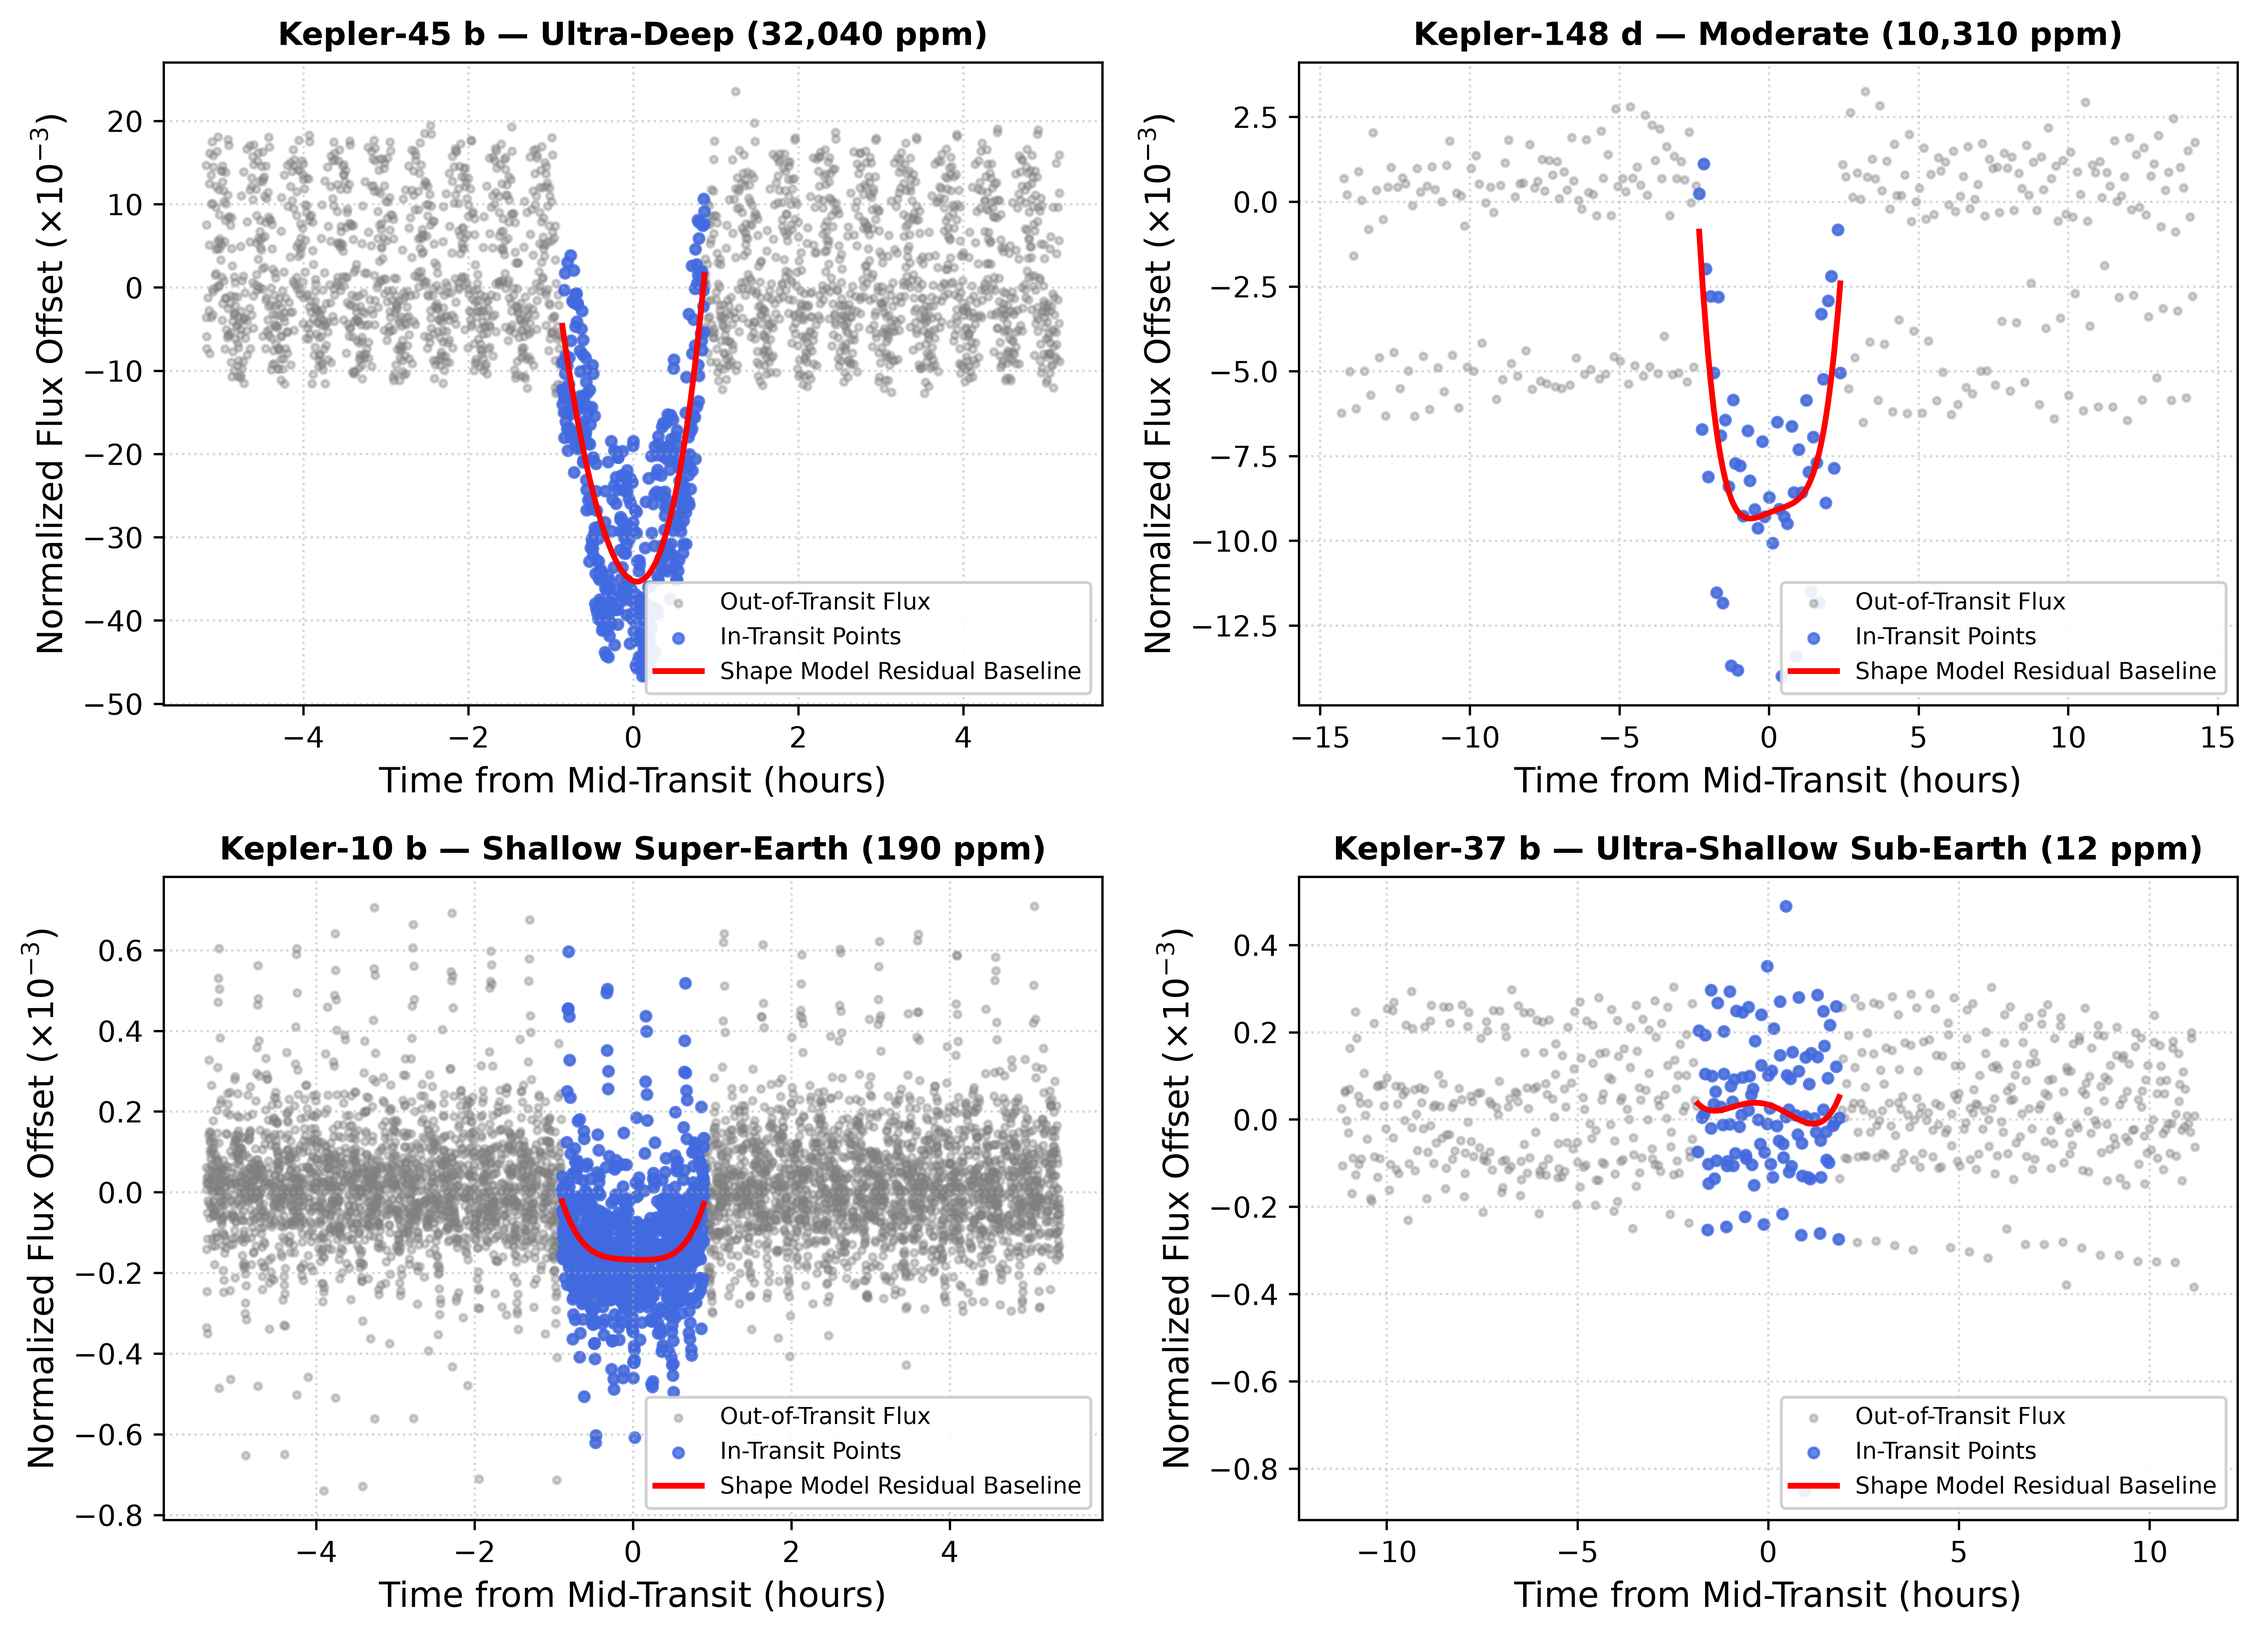
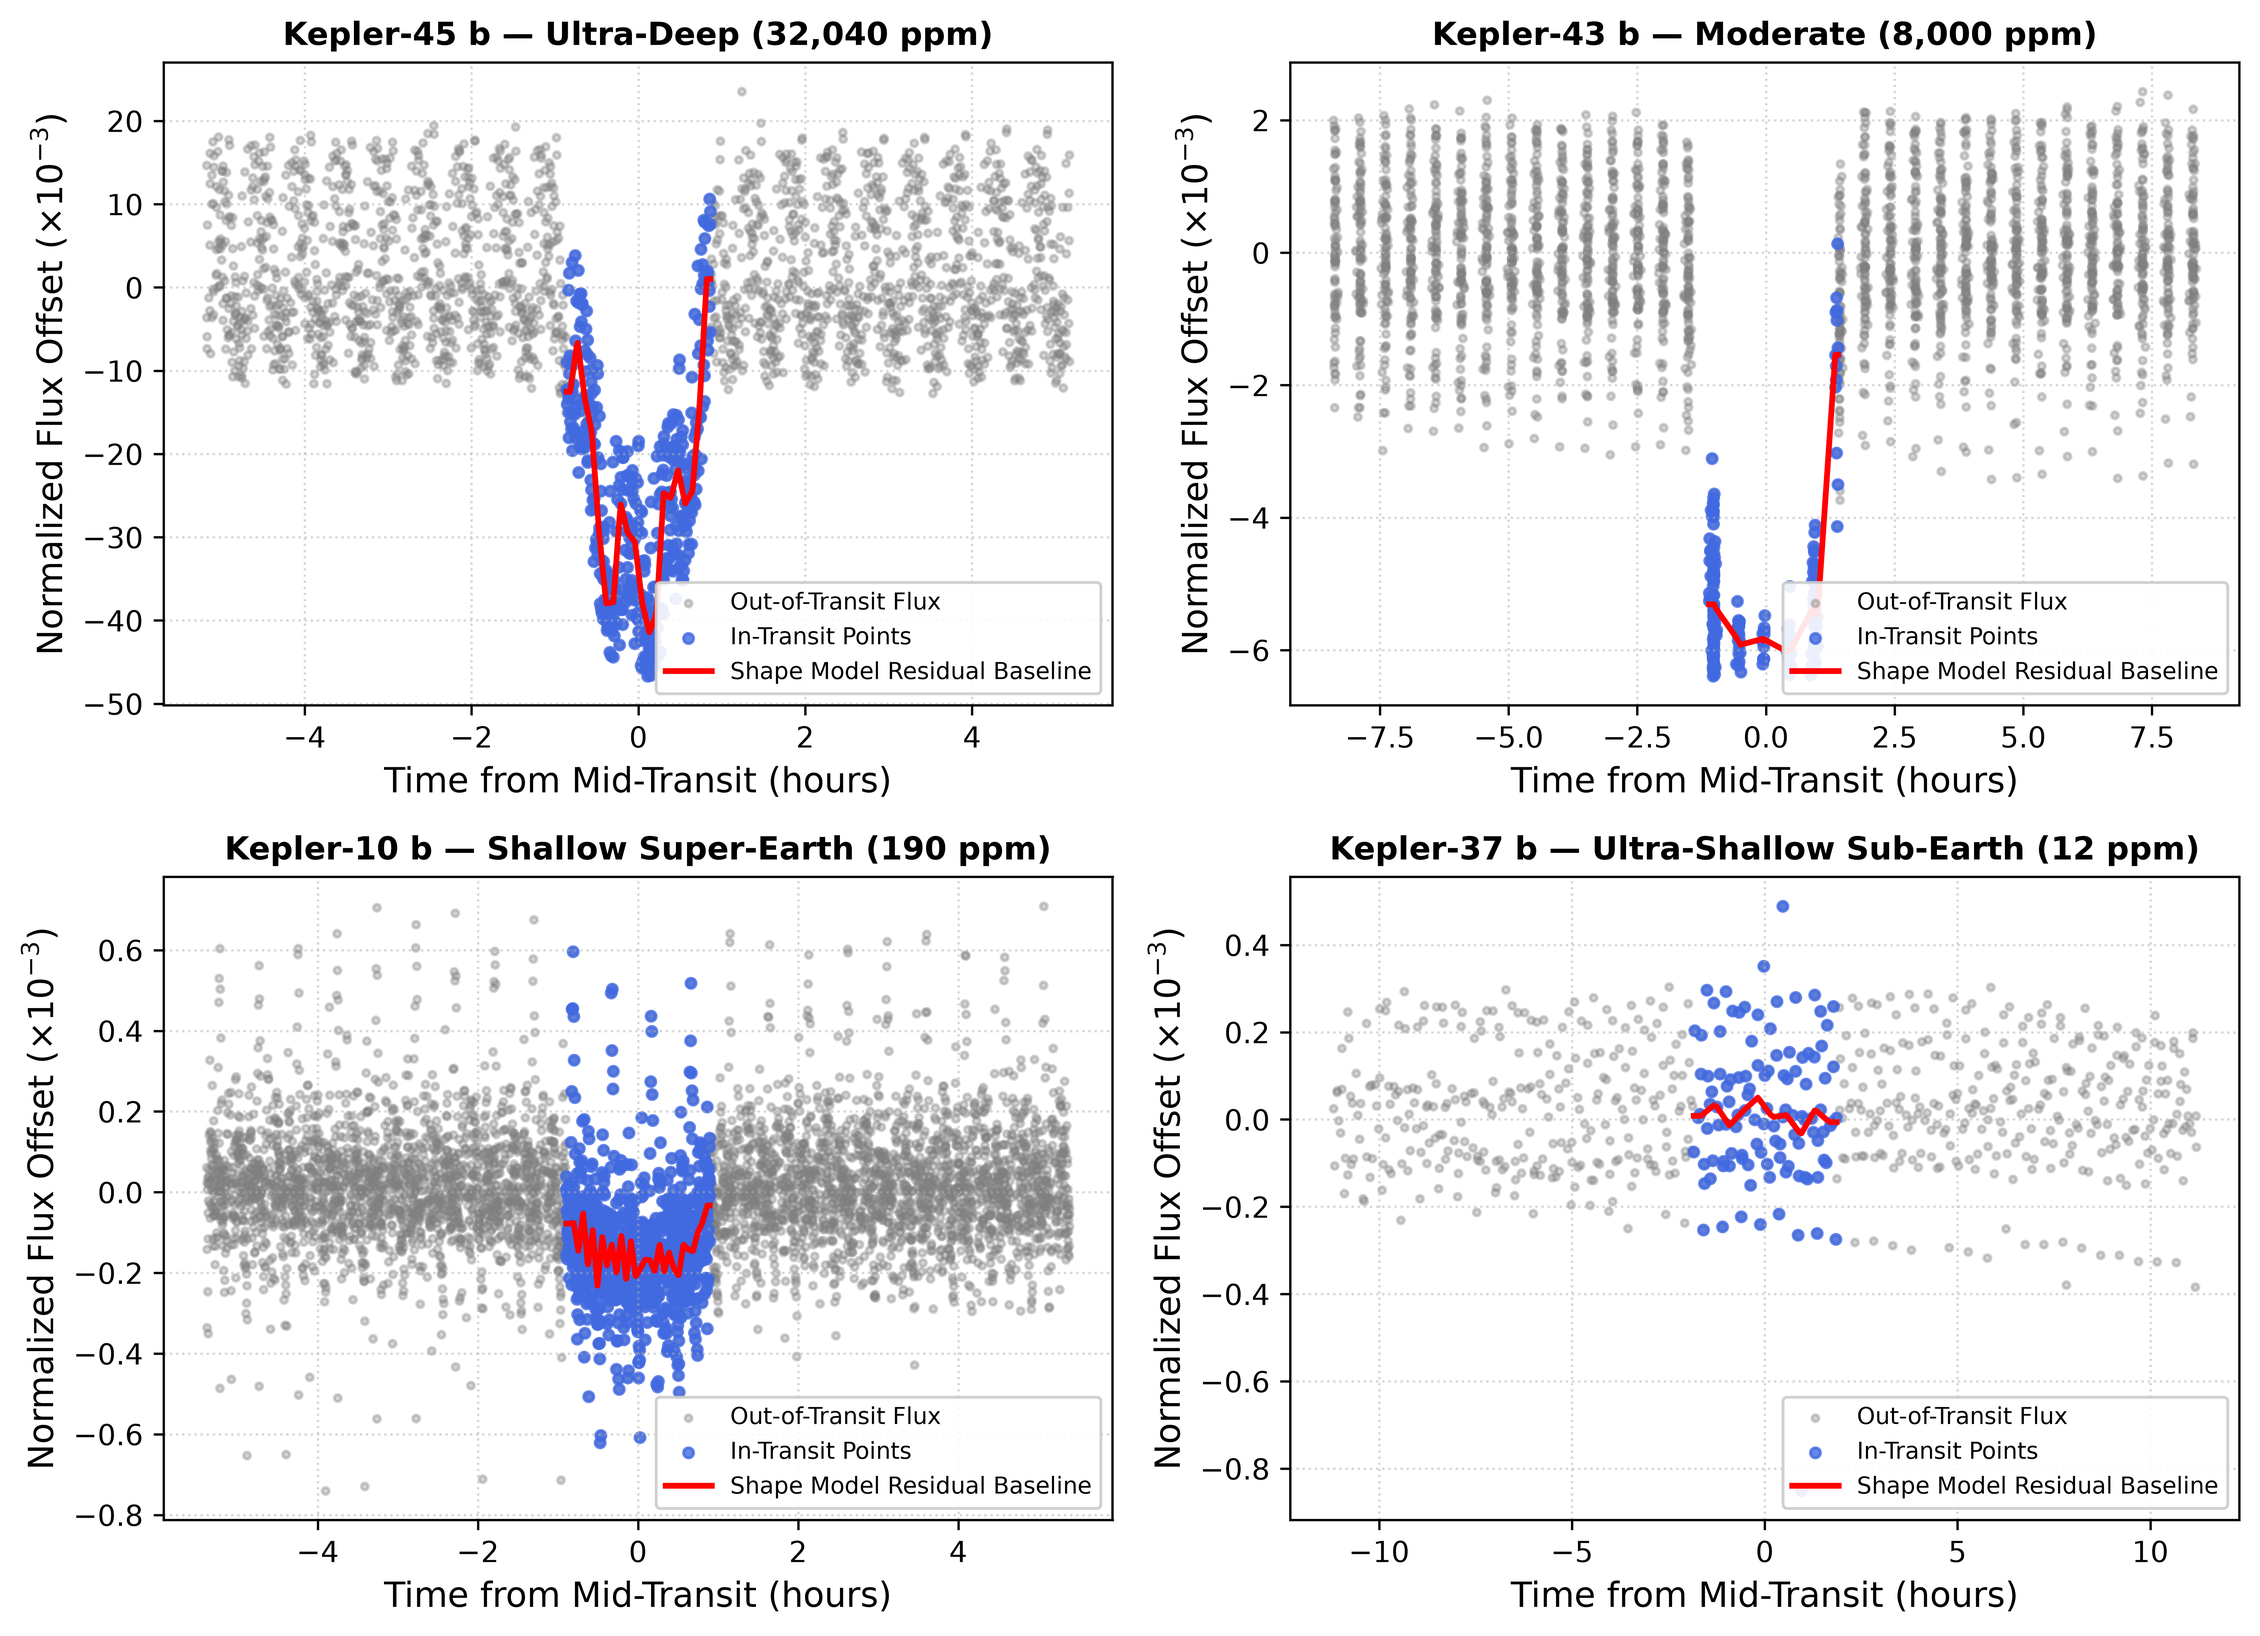
fix: calibrate Kepler-36 c tier in Fig 6 and synchronize benchmark catalog with detrended SNRs

diff --git a/scripts/generate_population_figures.py b/scripts/generate_population_figures.py
@@ -179,7 +179,7 @@ def plot_fig3_phase_folded_archetypes():
     df = pd.read_csv("data/kepler_population_catalog.csv")
     archetypes = [
         ('Kepler-45 b',  'Ultra-Deep (32,040 ppm)'),
-        ('Kepler-148 d', 'Moderate (10,310 ppm)'),
+        ('Kepler-43 b',  'Moderate (8,000 ppm)'),
         ('Kepler-10 b',  'Shallow Super-Earth (190 ppm)'),
         ('Kepler-37 b',  'Ultra-Shallow Sub-Earth (12 ppm)')
     ]
@@ -461,7 +461,7 @@ def plot_fig6_case_studies_diagnostics():
     ax2.set_ylim(-850, 450)
     ax2.set_xlabel('Time from Nominal Mid-Transit (Hours)')
     ax2.set_ylabel(r'Relative Flux $\Delta F / F_0$ (ppm)')
-    ax2.set_title(r'(b) Kepler-36 c: Rigid Linear Ephemeris' + '\n' + r'Tier 3 Veto: $\pm 8$ h TTV Smearing Inflates Residuals')
+    ax2.set_title(r'(b) Kepler-36 c: Rigid Linear Ephemeris' + '\n' + r'Tier 2 Review: $\pm 8$ h TTV Smearing Inflates Residuals')
     ax2.grid(True, linestyle=':', alpha=0.5)
 
     badge36_lin = (
@@ -469,10 +469,10 @@ def plot_fig6_case_studies_diagnostics():
         r'$\delta_{\mathrm{true}} = 430.0\ \mathrm{ppm},\ \Delta t_{\mathrm{TTV}} \sim \pm 8\ \mathrm{h}$' + '\n' +
         r'$\sigma_{\mathrm{out}} = 104.3\ \mathrm{ppm},\ \sigma_{\mathrm{in,res}} = 177.3\ \mathrm{ppm}$' + '\n' +
         r'$\psi_{\mathrm{corr}} = 0.700,\ \mathcal{P}_{\mathrm{corr}} = \mathbf{0.5306}$' + '\n' +
-        r'$\mathbf{Tier\ 3\ (Veto)}\ [\mathrm{Diagnostic\ Flag\ for\ TTVs}]$'
+        r'$\mathbf{Tier\ 2\ (Review)}\ [\mathrm{Diagnostic\ Flag\ for\ TTVs}]$'
     )
     ax2.text(0.04, 0.04, badge36_lin, transform=ax2.transAxes, fontsize=8.2, verticalalignment='bottom',
-             bbox=dict(boxstyle='round,pad=0.4', facecolor='#ffebee', edgecolor='#c62828', lw=1.2, alpha=0.92))
+             bbox=dict(boxstyle='round,pad=0.4', facecolor='#fff3e0', edgecolor='#f57c00', lw=1.2, alpha=0.92))
     ax2.legend(loc='upper right', fontsize=8, framealpha=0.9)
 
     # (c) Kepler-36 c: Dynamical
